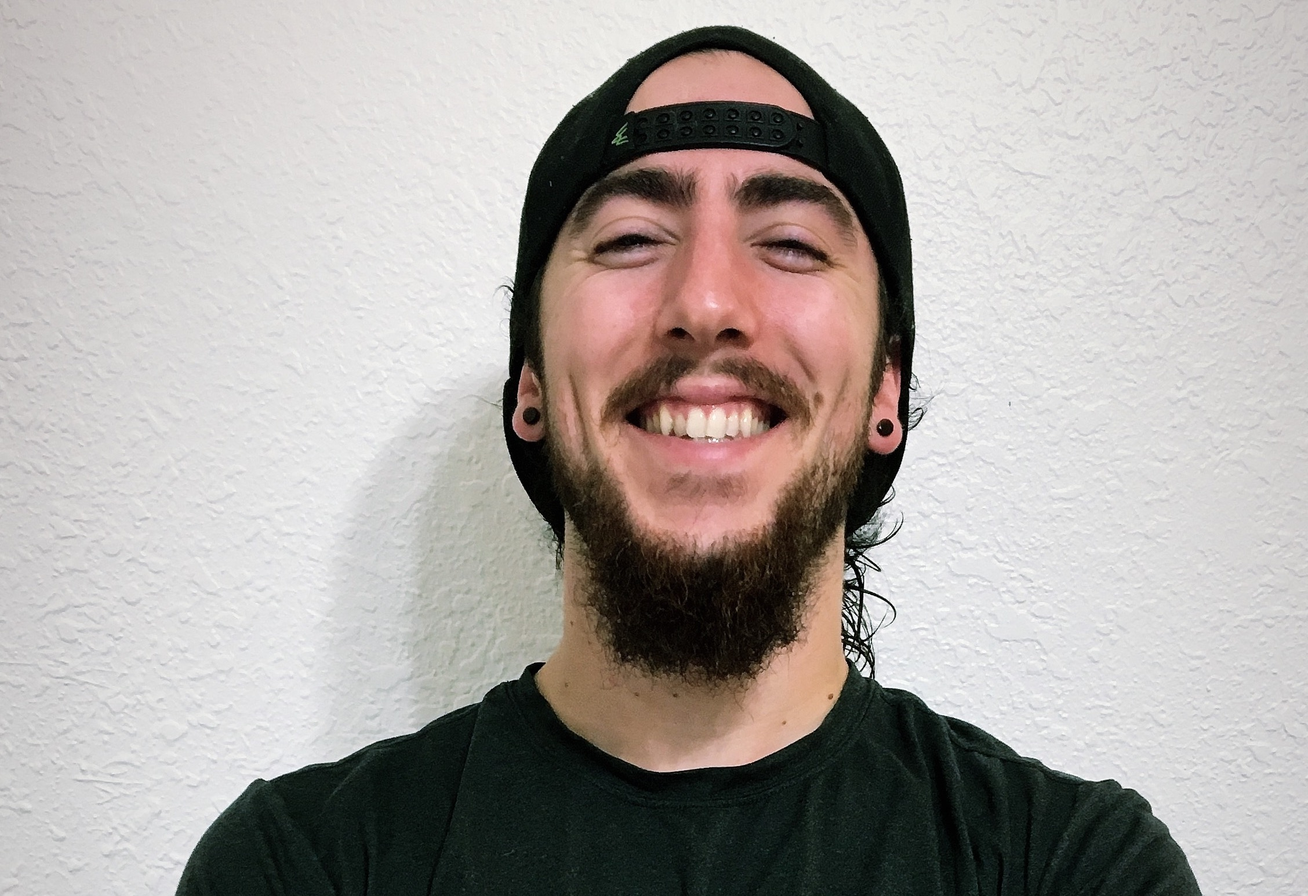
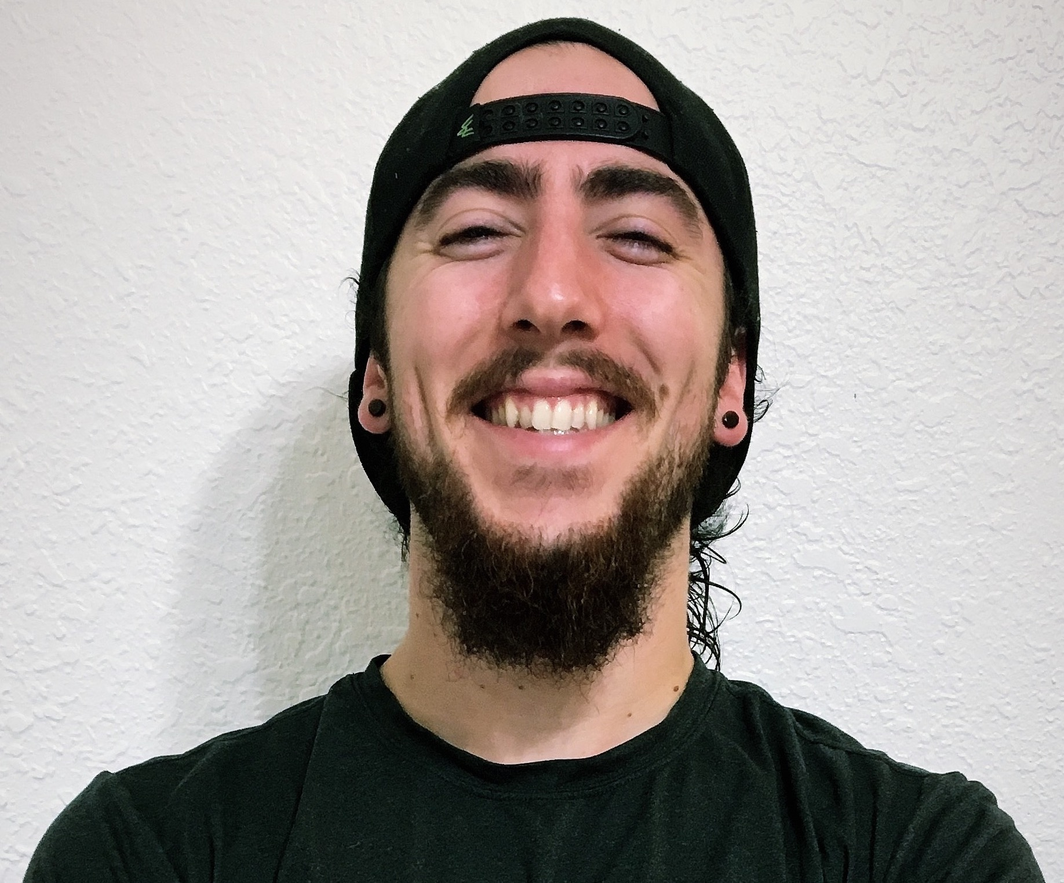
fixed portfolio section and working on downloadable link to resume

diff --git a/index.html b/index.html
@@ -38,7 +38,8 @@
 						<ul class="icons">
 							<li><a href="https://www.linkedin.com/in/gianni-nola/" class="icon brands fa-linkedin" target="_blank"><span class="label">LinkedIn</span></a></li>
 							<li><a href="https://github.com/Gnola" class="icon brands fa-github" target="_blank"><span class="label">Github</span></a></li>
-							<li><a href="#" class="icon solid fa-download"><span class="label">Resume</span></a></li>
+							<li><a href="images/G.JPG" download class="icon solid fa-download" ><span class="label">Resume</span></a></li>
+							<li><a href="images/G.JPG" download class="icon solid fa-download" >Resume</a></li>
 						</ul>
 
 				</div>
@@ -60,7 +61,7 @@
 							</header>
 
 							<footer>
-								<a href="#portfolio" class="button scrolly">Magna Aliquam</a>
+								<a href="#portfolio" class="button scrolly">View Portfolio</a>
 							</footer>
 
 						</div>
@@ -82,48 +83,66 @@
 							<div class="row">
 								<div class="col-4 col-12-mobile">
 									<article class="item">
-										<a href="https://mern-music.herokuapp.com/" class="image fit" target="_blank"><img src="images/lifesmusic.png" alt="" /></a>
+										<a href="https://mern-music.herokuapp.com/" class="image fit" target="_blank"><img src="images/lifesmusic.png" alt="" class="item-img" /></a>
 										<header>
 											<h3>Life's Music</h3>
+											<p class="des">Automatically generated playlists based on user inputed songs that are then rated according to song weight and energy</p>
+											<p class="des">| HTML | CSS | SkeletonCSS | JavaScript | MongoDB/Mongoose | Express | React | Node.js |</p>
 										</header>
 									</article>
 									<article class="item">
-										<a href="https://weddingguestlist.herokuapp.com/" class="image fit" target="_blank"><img src="images/wedding.png" alt="" /></a>
+										<a href="https://weddingguestlist.herokuapp.com/" class="image fit" target="_blank"><img src="images/wedding.png" alt="" class="item-img" /></a>
 										<header>
 											<h3>Wedding Planner</h3>
+											<p class="des">Wedding planning app designed to help the bride and groom plan their big day by inputting guests and track their RSVPs and invites as well as a budget page to help with track payments for services</p>
+											<p class="des">| HTML | CSS | SkeletonCSS | JavaScript | MongoDB/Mongoose | Node.js | Express | EJS |</p>
 										</header>
 									</article>
 								</div>
 								<div class="col-4 col-12-mobile">
 									<article class="item">
-										<a href="https://fierce-springs-93898.herokuapp.com/" class="image fit" target="_blank"><img src="images/musicapp.png" alt="" /></a>
+										<a href="https://fierce-springs-93898.herokuapp.com/" class="image fit" target="_blank"><img src="images/musicapp.png" alt="" class="item-img" /></a>
 										<header>
 											<h3>Music App</h3>
+											<p class="des">Music app that allows users to add songs to the database and then be able to save songs as favorites as well as rate each favorited song</p>
+											<p class="des">| HTML | CSS | JavaScript | PostgreSQL | React | PHP |</p>
 										</header>
 									</article>
 									<article class="item">
-										<a href="https://gnola.github.io/news_app/" class="image fit" target="_blank"><img src="images/topnews.png" alt="" /></a>
+										<a href="https://gnola.github.io/news_app/" class="image fit" target="_blank"><img src="images/topnews.png" alt="" class="item-img" /></a>
 										<header>
 											<h3>Top News</h3>
+											<p class="des">Single page application that displays the top 5 current articles based on category selected by user</p>
+											<p class="des">| HTML | CSS | JavaScript | jQuery |</p>
 										</header>
 									</article>
 								</div>
 								<div class="col-4 col-12-mobile">
 									<article class="item">
-										<a href="http://ontherocks.herokuapp.com/" class="image fit" target="_blank"><img src="images/ontherocks.png" alt="" /></a>
+										<a href="http://ontherocks.herokuapp.com/" class="image fit" target="_blank"><img src="images/ontherocks.png" alt="" class="item-img" /></a>
 										<header>
 											<h3>onTheRocks</h3>
+											<p class="des">App designed to allow users to find new cocktails to try next time they're out on the town with a built in Jeopardy game to help pass the time</p>
+											<p class="des">| HTML | CSS | Skeleton CSS | JavaScript | MongoDB/Mongoose | Express | Angular | Node.js |</p>
 										</header>
 									</article>
 									<article class="item">
-										<a href="https://www.uplifted-fitness.com/" class="image fit" target="_blank"><img src="images/UF.png" alt="" /></a>
+										<a href="https://www.uplifted-fitness.com/" class="image fit" target="_blank"><img src="images/UF.png" alt="" class="item-img" /></a>
 										<header>
 											<h3>Uplifted Fitness</h3>
+											<p class="des">Personal training website built for promotion, marketing, booking sessions, personal contact and necessary information for potential clients</p>
+											<p class="des">| Squarespace |</p>
 										</header>
 									</article>
 								</div>
 							</div>
-
+							<br>
+							<p id='repo'>View Repos</p>
+							<a class="repo-link" href="https://github.com/Gnola/MERN_Music/blob/master/README.md" target="_blank">Life's Music</a> |
+							<a class="repo-link" href="https://github.com/rbrown29/React-MusicApp/blob/master/README.md" target="_blank">Music App</a> |
+							<a class="repo-link" href="https://github.com/Derek-M-Davis/ontherocks/blob/master/README.md" target="_blank">onTheRocks</a> |
+							<a class="repo-link" href="https://github.com/Gnola/wedding-list/blob/master/README.md" target="_blank">Wedding Planner</a> |
+							<a class="repo-link" href="https://github.com/Gnola/Gnola.github.io/blob/master/news_app/README.md" target="_blank">Top News</a>
 						</div>
 					</section>
 
@@ -135,7 +154,7 @@
 								<h2>About Me</h2>
 							</header>
 
-							<a href="#" class="image featured"><img src="images/pic08.jpg" alt="" /></a>
+							<img src="images/G.JPG" alt="" class="about-img"/>
 
 							<p>Tincidunt eu elit diam magnis pretium accumsan etiam id urna. Ridiculus
 							ultricies curae quis et rhoncus velit. Lobortis elementum aliquet nec vitae
@@ -160,15 +179,15 @@
 							donec curae mus. Eleifend id porttitor ac ultricies lobortis sem nunc
 							orci ridiculus faucibus a consectetur. Porttitor curae mauris urna mi dolor.</p>
 
-							<form method="post" action="#">
+							<form method="post" action="mailto:gnola22@gmail.com">
 								<div class="row">
-									<div class="col-6 col-12-mobile"><input type="text" name="name" placeholder="Name" /></div>
+									<!-- <div class="col-6 col-12-mobile"><input type="text" name="name" placeholder="Name" /></div>
 									<div class="col-6 col-12-mobile"><input type="text" name="email" placeholder="Email" /></div>
 									<div class="col-12">
 										<textarea name="message" placeholder="Message"></textarea>
-									</div>
+									</div> -->
 									<div class="col-12">
-										<input type="submit" value="Send Message" />
+										<input type="submit" value="Contact Me" />
 									</div>
 								</div>
 							</form>

diff --git a/assets/css/main.css b/assets/css/main.css
@@ -6,6 +6,13 @@
 	html5up.net | @ajlkn
 	Free for personal and commercial use under the CCA 3.0 license (html5up.net/license)
 */
+.about-img {
+	width: 20rem;
+	height: 15rem;
+}
+#repo {
+	margin-bottom: 0;
+}
 
 html, body, div, span, applet, object,
 iframe, h1, h2, h3, h4, h5, h6, p, blockquote,
@@ -166,7 +173,8 @@ input, select, textarea {
 	a {
 		text-decoration: none;
 		color: inherit;
-		border-bottom: dotted 1px rgba(128, 128, 128, 0.5);
+		font-weight: 400;
+		/* border-bottom: dotted 1px rgba(128, 128, 128, 0.5); */
 		-moz-transition: color 0.35s ease-in-out, border-bottom-color 0.35s ease-in-out;
 		-webkit-transition: color 0.35s ease-in-out, border-bottom-color 0.35s ease-in-out;
 		-ms-transition: color 0.35s ease-in-out, border-bottom-color 0.35s ease-in-out;
@@ -1984,15 +1992,33 @@ input, select, textarea {
 		margin-bottom: 40px;
 	}
 
+	.item:hover .des {
+		opacity: 1;
+		transition: .7s ease-in;
+		max-height: 500px;
+	}
+	.item-img {
+		height: 250px;
+	}
+
 		.item header {
 			background: #fff;
 			margin: 0;
-			padding: 1em 0 1em 0;
+			padding: 1.5em 0 0 0;
 			font-size: 0.8em;
+			overflow:hidden;
 		}
 
 			.item header h3 {
 				font-size: 1em;
+				font-weight: 400;
+			}
+			.des {
+				max-height: 0;
+				opacity: 0;
+				overflow: hidden;
+				transition: .7s ease-out;
+				font-size: .9em;
 			}
 
 /* Icons */
@@ -2253,6 +2279,7 @@ input, select, textarea {
 
 			#main > section.two {
 				background-color: #f5fafa;
+				padding-bottom: .5em;
 			}
 
 			#main > section.three {
